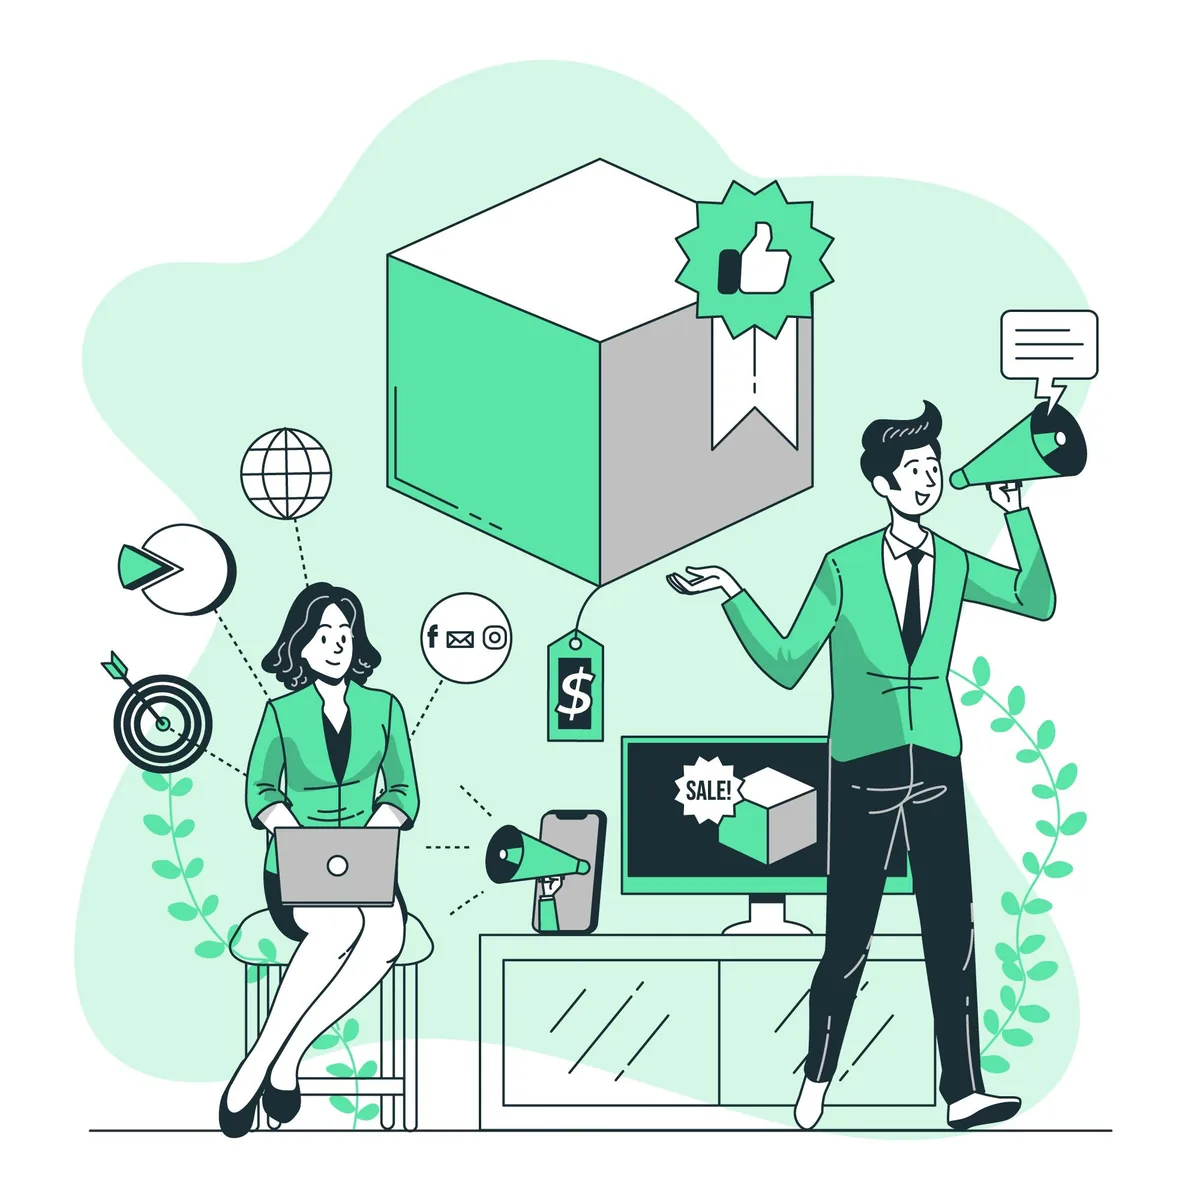
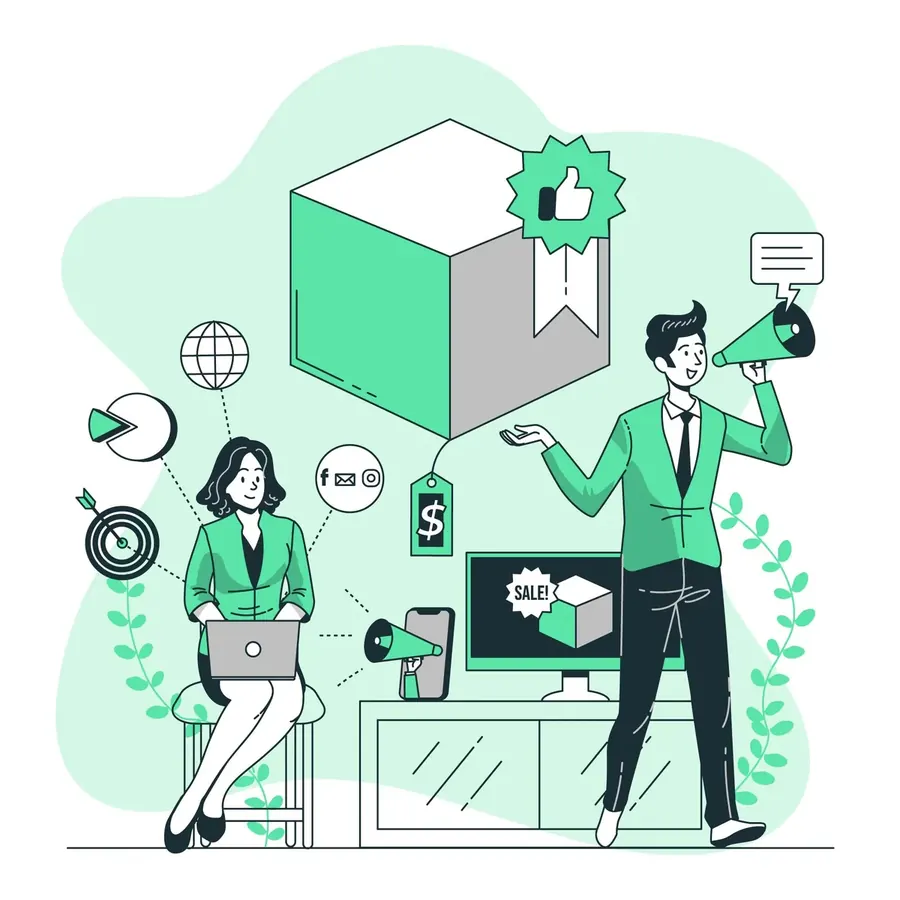
Push PageSpeed toward 4x100: a11y contrast, faster hero, less main-thread work.
Fix footer contrast, drop hero fade/zoom, serve a smaller LCP image, inline fonts, and replace scroll reflow with IntersectionObserver.

Changed region(s): [[0.2178, 0.3733, 0.2489, 0.4356], [0.7467, 0.4356, 0.7778, 0.4667], [0.56, 0.4667, 0.5911, 0.4978]]

diff --git a/js/main.js b/js/main.js
@@ -2,18 +2,24 @@
   const header = document.querySelector(".site-header");
   const toggle = document.querySelector(".nav-toggle");
   const nav = document.querySelector("#site-nav");
-  const year = document.querySelector("#year");
   const form = document.querySelector("#contact-form");
   const formNote = document.querySelector("#form-note");
 
-  if (year) year.textContent = String(new Date().getFullYear());
-
-  const onScroll = () => {
-    if (!header) return;
-    header.classList.toggle("is-scrolled", window.scrollY > 12);
-  };
-  onScroll();
-  window.addEventListener("scroll", onScroll, { passive: true });
+  // Scroll state without reading layout in a scroll handler (avoids forced reflow)
+  if (header) {
+    const sentinel = document.createElement("div");
+    sentinel.setAttribute("aria-hidden", "true");
+    sentinel.style.cssText =
+      "position:absolute;top:0;left:0;width:1px;height:1px;pointer-events:none;";
+    document.body.prepend(sentinel);
+    if ("IntersectionObserver" in window) {
+      new IntersectionObserver(
+        ([entry]) =>
+          header.classList.toggle("is-scrolled", !entry.isIntersecting),
+        { threshold: 0, rootMargin: "-12px 0px 0px 0px" }
+      ).observe(sentinel);
+    }
+  }
 
   if (toggle && nav) {
     toggle.addEventListener("click", () => {
@@ -31,7 +37,10 @@
     });
   }
 
-  const reveals = document.querySelectorAll(".reveal");
+  const revealEls = [...document.querySelectorAll(".reveal")].filter(
+    (el) => !el.closest(".hero")
+  );
+
   if ("IntersectionObserver" in window) {
     const io = new IntersectionObserver(
       (entries) => {
@@ -44,15 +53,10 @@
       },
       { threshold: 0.12, rootMargin: "0px 0px -8% 0px" }
     );
-    reveals.forEach((el) => io.observe(el));
+    revealEls.forEach((el) => io.observe(el));
   } else {
-    reveals.forEach((el) => el.classList.add("is-visible"));
+    revealEls.forEach((el) => el.classList.add("is-visible"));
   }
-
-  // Hero content should show immediately
-  document.querySelectorAll(".hero .reveal").forEach((el) => {
-    el.classList.add("is-visible");
-  });
 
   if (form) {
     form.addEventListener("submit", (event) => {

diff --git a/index.html b/index.html
@@ -37,9 +37,15 @@
 
   <link rel="preload" href="assets/fonts/commissioner-400-800-cyrillic.woff2" as="font" type="font/woff2" crossorigin>
   <link rel="preload" href="assets/fonts/commissioner-400-800-latin.woff2" as="font" type="font/woff2" crossorigin>
-  <link rel="stylesheet" href="css/fonts.css">
+  <link rel="preload" as="image" href="assets/images/hero/hero-social-marketing-800.webp" type="image/webp">
+  <style>
+    /* Self-hosted Commissioner — inlined to skip fonts.css request */
+    @font-face{font-family:'Commissioner';font-style:normal;font-weight:400 800;font-display:swap;src:url("assets/fonts/commissioner-400-800-cyrillic-ext.woff2") format("woff2");unicode-range:U+0460-052F,U+1C80-1C8A,U+20B4,U+2DE0-2DFF,U+A640-A69F,U+FE2E-FE2F}
+    @font-face{font-family:'Commissioner';font-style:normal;font-weight:400 800;font-display:swap;src:url("assets/fonts/commissioner-400-800-cyrillic.woff2") format("woff2");unicode-range:U+0301,U+0400-045F,U[phone redacted],U+04B0-04B1,U+2116}
+    @font-face{font-family:'Commissioner';font-style:normal;font-weight:400 800;font-display:swap;src:url("assets/fonts/commissioner-400-800-latin-ext.woff2") format("woff2");unicode-range:U+0100-02BA,U+02BD-02C5,U+02C7-02CC,U+02CE-02D7,U+02DD-02FF,U+0304,U+0308,U+0329,U+1D00-1DBF,U+1E00-1E9F,U+1EF2-1EFF,U+2020,U+20A0-20AB,U+20AD-20C0,U+2113,U+2C60-2C7F,U+A720-A7FF}
+    @font-face{font-family:'Commissioner';font-style:normal;font-weight:400 800;font-display:swap;src:url("assets/fonts/commissioner-400-800-latin.woff2") format("woff2");unicode-range:U+0000-00FF,U+0131,U[phone redacted],U+02BB-02BC,U+02C6,U+02DA,U+02DC,U+0304,U+0308,U+0329,U+2000-206F,U+20AC,U+2122,U+2191,U+2193,U+2212,U+2215,U+FEFF,U+FFFD}
+  </style>
   <link rel="stylesheet" href="css/styles.css">
-  <link rel="preload" as="image" href="assets/images/hero/hero-social-marketing.webp" type="image/webp">
   <script type="application/ld+json">
   {
     "@context": "https://schema.org",
@@ -321,9 +327,20 @@
     <section class="hero" aria-labelledby="hero-title">
       <div class="hero-media" aria-hidden="true">
         <picture>
-          <source srcset="assets/images/hero/hero-social-marketing.avif" type="image/avif">
-          <source srcset="assets/images/hero/hero-social-marketing.webp" type="image/webp">
-          <img src="assets/images/hero/hero-social-marketing.webp" alt="" width="1400" height="1867" fetchpriority="high" decoding="async">
+          <source
+            type="image/avif"
+            srcset="assets/images/hero/hero-social-marketing.avif">
+          <source
+            type="image/webp"
+            srcset="assets/images/hero/hero-social-marketing-800.webp 800w, assets/images/hero/hero-social-marketing.webp 1050w"
+            sizes="100vw">
+          <img
+            src="assets/images/hero/hero-social-marketing-800.webp"
+            alt=""
+            width="800"
+            height="1067"
+            fetchpriority="high"
+            decoding="async">
         </picture>
         <div class="hero-scrim"></div>
       </div>
@@ -604,7 +621,7 @@
         <a href="https://www.evodigital.bg/%D0%BF%D0%BE%D0%BB%D0%B8%D1%82%D0%B8%D0%BA%D0%B0-%D0%BD%D0%B0-%D0%BF%D0%BE%D0%B2%D0%B5%D1%80%D0%B8%D1%82%D0%B5%D0%BB%D0%BD%D0%BE%D1%81%D1%82">Политика на поверителност</a>
         <a href="https://www.evodigital.bg/blog-feed.xml">RSS</a>
       </nav>
-      <p class="copyright">© <span id="year">2026</span> EVO Digital</p>
+      <p class="copyright">© 2026 EVO Digital</p>
     </div>
   </footer>
 

diff --git a/css/styles.css b/css/styles.css
@@ -294,8 +294,6 @@ p {
   height: 100%;
   object-fit: cover;
   object-position: center 20%;
-  transform: scale(1.04);
-  animation: heroZoom 18s var(--ease) forwards;
 }
 
 .hero-scrim {
@@ -336,10 +334,10 @@ p {
   margin-top: 2rem;
 }
 
-@keyframes heroZoom {
-  to {
-    transform: scale(1);
-  }
+/* Hero must paint immediately — don't wait for JS reveal */
+.hero .reveal {
+  opacity: 1;
+  transform: none;
 }
 
 /* About */
@@ -806,7 +804,7 @@ p {
 }
 
 .copyright {
-  color: rgba(245, 244, 248, 0.45);
+  color: rgba(245, 244, 248, 0.72);
   font-size: 0.88rem;
 }
 